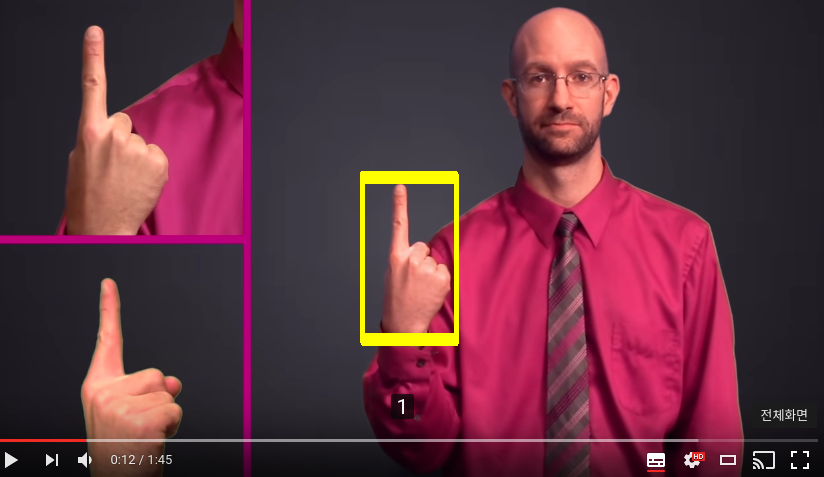
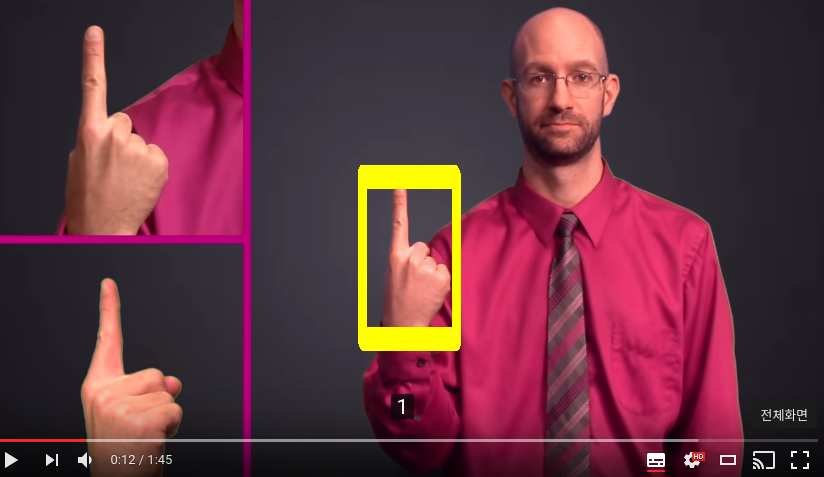
compare object detection on different threshold

Changed region(s): [[0.4248, 0.3229, 0.5765, 0.7338]]

diff --git a/2017_Spring/opencv_tutorials/ot11_templateMatching.py b/2017_Spring/opencv_tutorials/ot11_templateMatching.py
@@ -23,7 +23,10 @@ import numpy as np
 # 	cv2.rectangle(img_bgr, pt, (pt[0] + w, pt[1] + h), (0,255,255), 2)
 
 # cv2.imwrite('detected.png', img_bgr)
-# #cv2.imshow('detected', img_bgr) # not working...
+# cv2.imshow('detected', img_bgr)
+# cv2.waitKey(0)
+# cv2.distroyAllWindows()
+
 
 ### 2. with our data ###
 img_bgr = cv2.imread('ASL_one_youtube.png')
@@ -35,18 +38,27 @@ w, h = template.shape[::-1]
 
 res = cv2.matchTemplate(img_gray, template, cv2.TM_CCOEFF_NORMED)
 
-# save result with high threshold
-threshold = 0.9
+# 1. find with high threshold
+threshold = 0.8
 loc = np.where(res >= threshold)
-# https://docs.python.org/3/library/functions.html#zip
+
 for pt in zip(*loc[::-1]):
 	cv2.rectangle(img_bgr, pt, (pt[0] + w, pt[1] + h), (0,255,255), 1)
 cv2.imwrite('detected_1.png', img_bgr)
 
-# save result with low threshold
-threshold = 0.5
+cv2.imshow('detect with high threshold', img_bgr)
+cv2.waitKey(0)
+
+# 2. find with low threshold
+threshold = 0.6
 loc = np.where(res >= threshold)
-# https://docs.python.org/3/library/functions.html#zip
+
+img_bgr = cv2.imread('ASL_one_youtube.png') # read again to undo # 1
+
 for pt in zip(*loc[::-1]):
 	cv2.rectangle(img_bgr, pt, (pt[0] + w, pt[1] + h), (0,255,255), 1)
 cv2.imwrite('detected_2.png', img_bgr)
+cv2.imshow('detect with low threshold', img_bgr)
+cv2.waitKey(0)
+
+cv2.distroyAllWindows()
